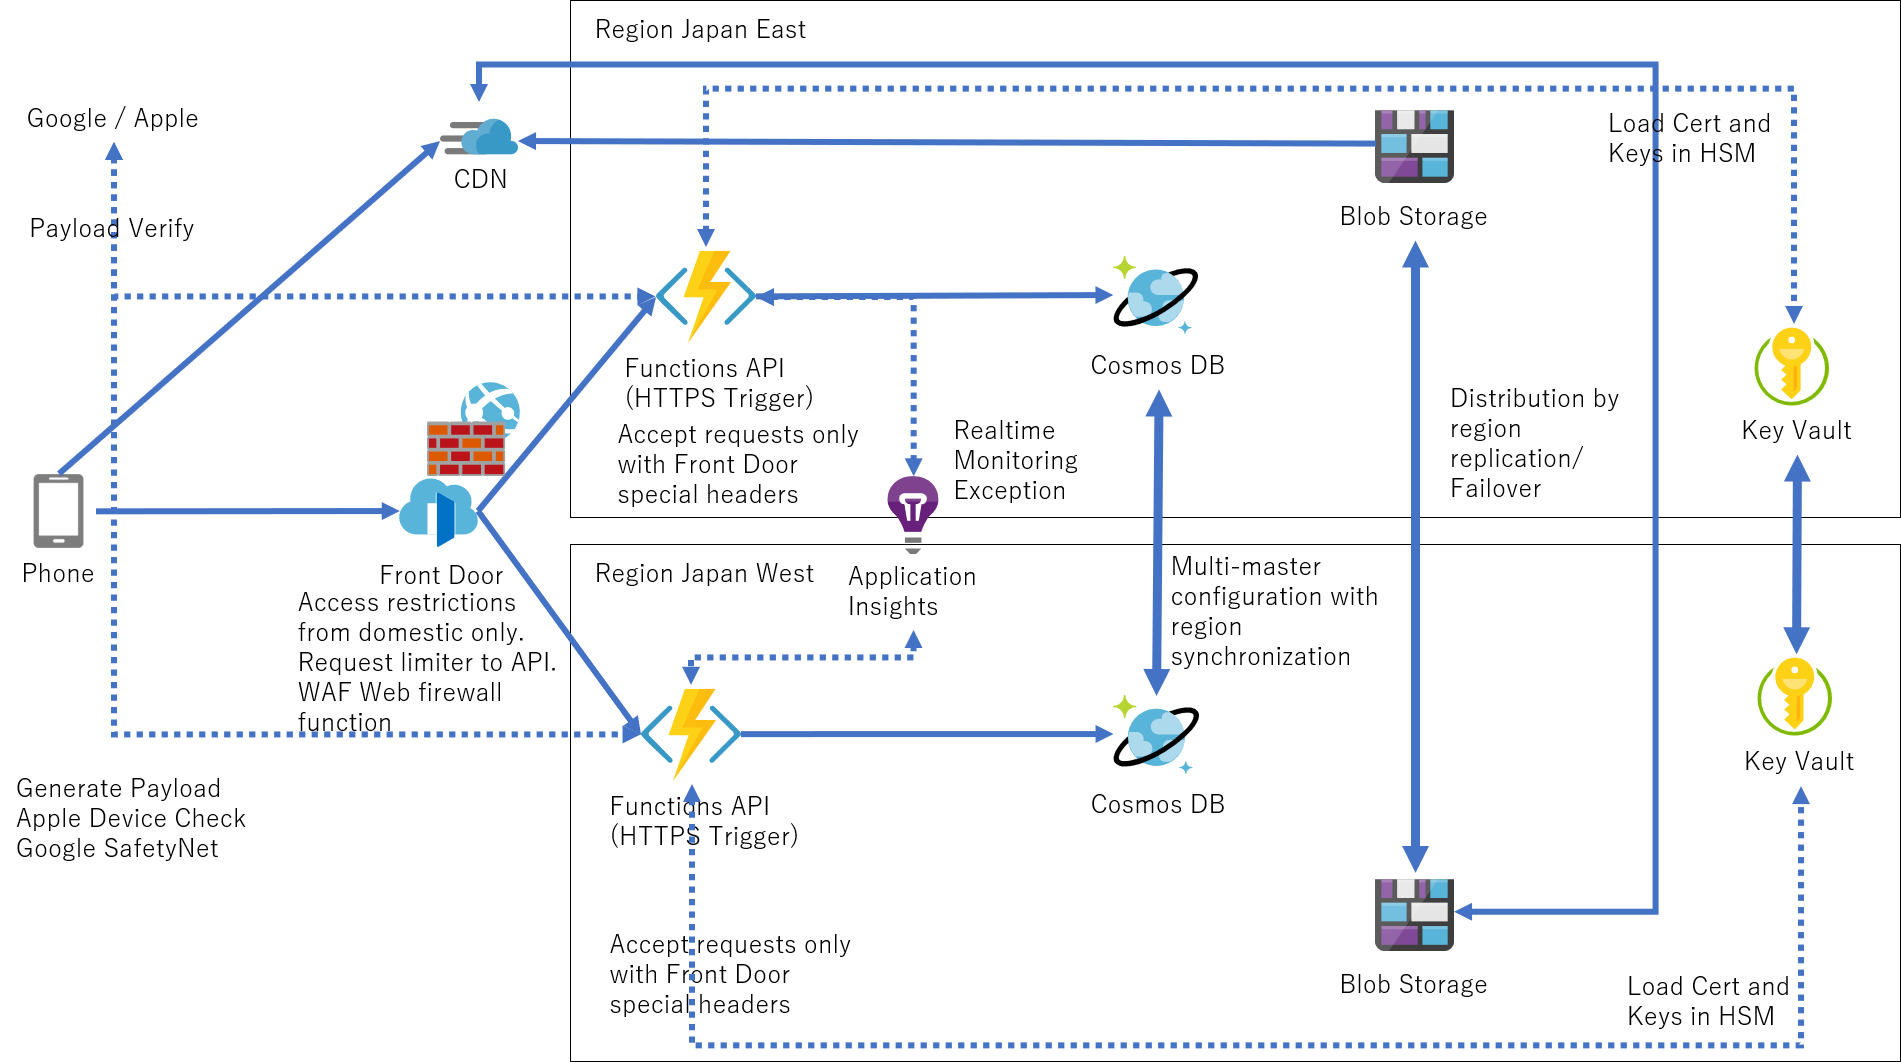
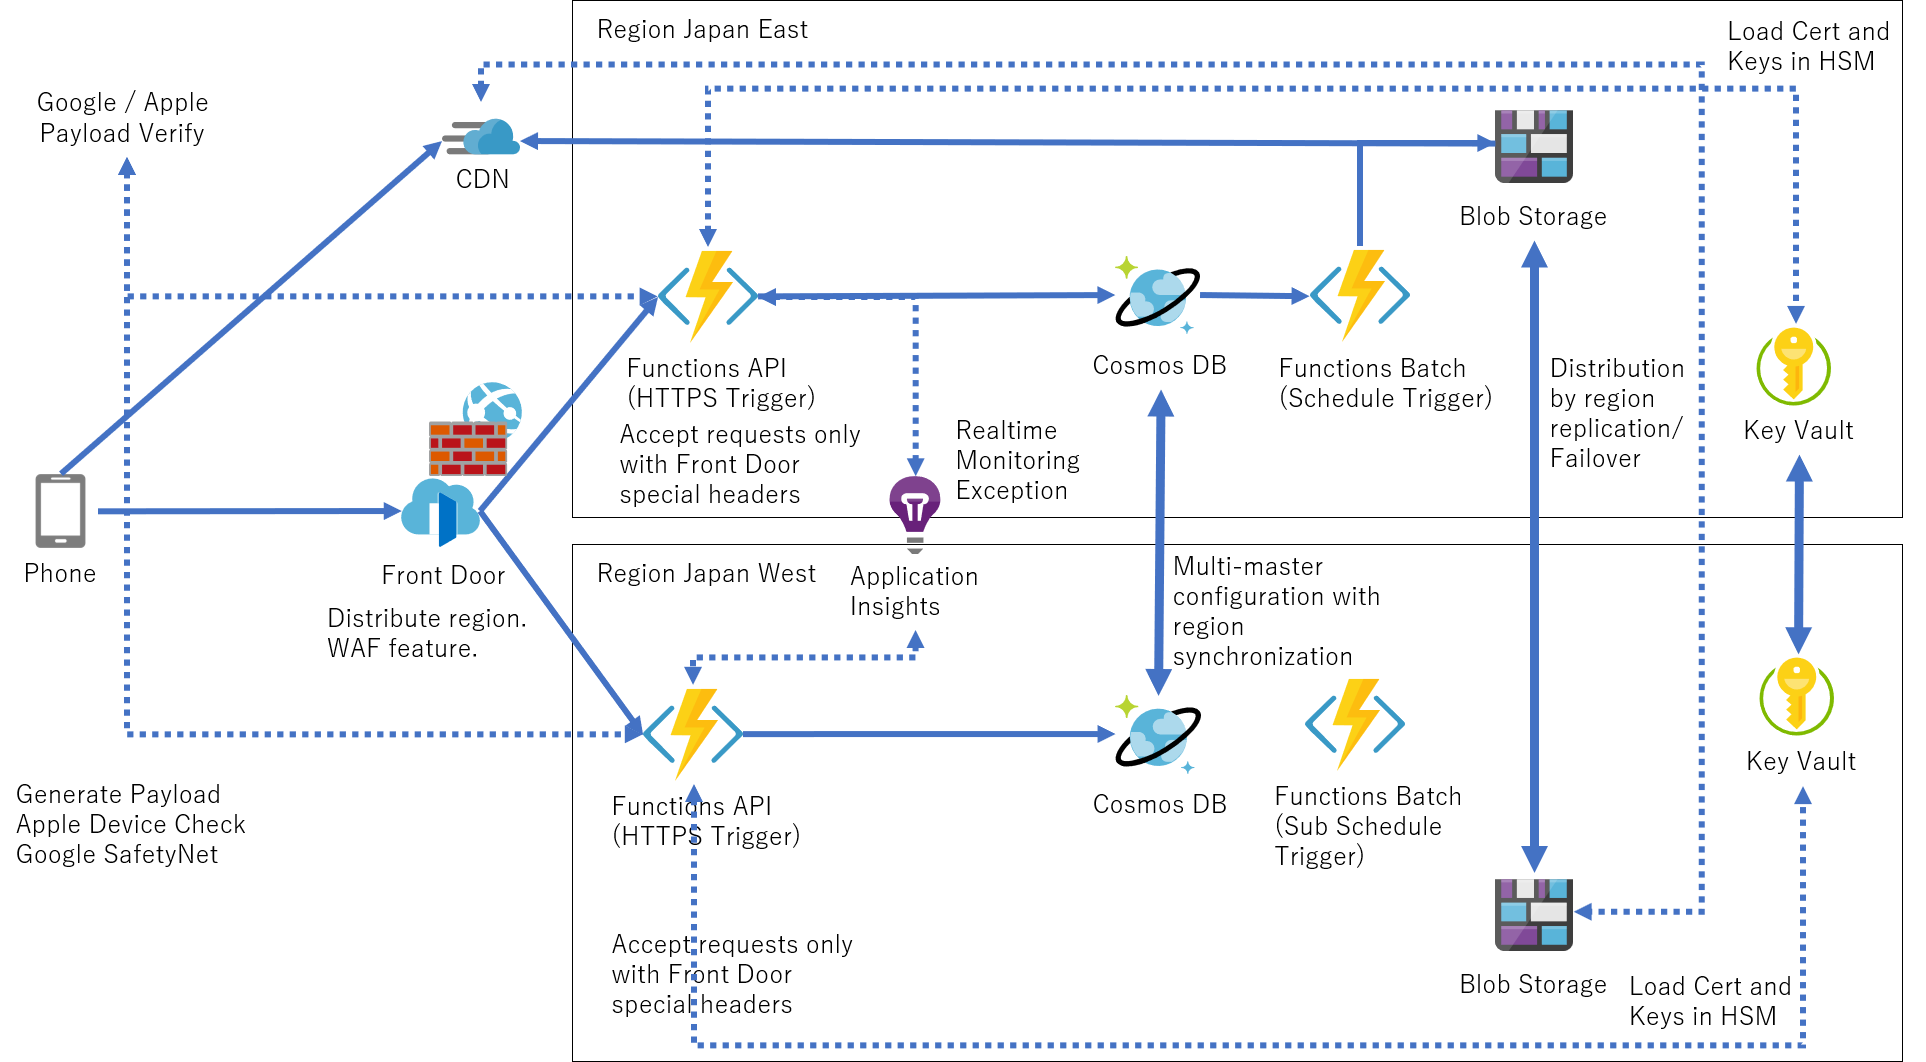
add each doc url

diff --git a/doc/SERVER_SIDE_ARCHITECTURE.md b/doc/SERVER_SIDE_ARCHITECTURE.md
@@ -17,19 +17,23 @@ Both are likely to fit within the free tier.
 Azure Functions is used as a REST API.
 In addition, the batch operation of schedule execution is also performed.
 These are not fixed instances, but have a mechanism to automatically scale out according to traffic.
+https://docs.microsoft.com/en-us/azure/azure-functions/
 
 ### Cosmos DB
 The data store for this project.
 During development, it is unlikely that the default 400RU will be used up.
+https://docs.microsoft.com/en-us/azure/cosmos-db/introduction
 
 ### Functions (Batch Job)
 Operates as a batch file process.
 Generates positive diagnostic key in protocol buffer format.
 These persist in storage blobs.
 There is also a batch that deletes junk files that are more than two weeks old.
+https://docs.microsoft.com/en-us/azure/azure-functions/
 
 ### Storage Blob
 Blobs are regularly fetched from the client.
+https://docs.microsoft.com/en-us/azure/storage/blobs/
 
 ## Production architecture
 The design example in production is shown below.
@@ -37,35 +41,39 @@ The design example in production is shown below.
 ![Folder](images/ProdArchitecture.png)
 
 ### FrontDoor
-Azure Front Door has the functions of global distribution, traffic distribution, and web firewall.
-Here, we limit DDOS attacks, OWASP and BOTNET, and limit the number of connections per second per IP.
-In addition, there are restrictions such as allowing only IP access in the target countries.
+Azure Front Door has the functions of traffic distribution, web firewall feature.
 Both are evenly distributed to provide automatic switching processing when a region failure occurs.
+https://docs.microsoft.com/en-us/azure/frontdoor/
 
 ### Functions (REST API)
 Azure Functions will only match the special request provided by Front Door and only accept the correct request.
+https://docs.microsoft.com/en-us/azure/azure-functions/
 
 ### Application Insights
 All instances are dynamically increasing and decreasing, so we are monitoring them with Application Insights.
+https://docs.microsoft.com/en-us/azure/azure-monitor/app/app-insights-overview
 
 ### Cosmos DB
 It syncs to two regions. The endpoint given at this time is an automatic failover endpoint.
 Data written between two regions will be synchronized to both sides regardless of which one is written.
+https://docs.microsoft.com/en-us/azure/cosmos-db/introduction
 
 ### Blob Storage
 Blob storage operates in GRS replication mode.
 The data written on one side (Japan East in this example) is synchronized with western Japan.
 Failover can be performed if necessary.
 Since it is actually cached in the CDN, you can only switch the destination of the CDN.
+https://docs.microsoft.com/en-us/azure/storage/blobs/
 
 ### CDN
 It is responsible for caching the generated files in Blob storage.
+https://docs.microsoft.com/en-us/azure/cdn/
 
 ### Key Vault (HSM)
 This application handles a wide variety of keys.
 For example, there are Google SafetyNet keys, Apple Device Check keys, and other keys for signing diagnostic keys and keys for verifying each signature.
 These are all stored in the Key Vault and can be loaded only by the app that is allowed when the application starts.
-
+https://docs.microsoft.com/en-us/azure/key-vault/
 
 ## CI/CD Pipeline
 
@@ -82,10 +90,12 @@ This is a remnant of Scrum development with the core team for a while.
 
 ### Azure DevOps
 On the DevOps side, when an update occurs in the server side project under the src folder of the branch master, it is automatically placed in the Dev environment.
+https://azure.microsoft.com/en-us/services/devops/
 
 ### App Center
 App Center is responsible for the client build pipeline.
 When the master is updated, the binaries for iOS and Android are automatically built and the startup test etc. are performed.
+https://azure.microsoft.com/en-us/services/app-center/
 
 ### Prod Pipeline
 
@@ -96,3 +106,5 @@ In order to deploy without interruption, first deploy to the Swap slot, and then
 In this pipeline build, the pre-built ZIP is deployed as Run from Package, and it is designed to be able to manually restore it in the event of a malfunction or tampering with the server.
 
 Also, the Swap mechanism allows you to revert to the original state if there is a problem after the Swap.
+
+https://docs.microsoft.com/en-us/azure/azure-functions/run-functions-from-deployment-package
